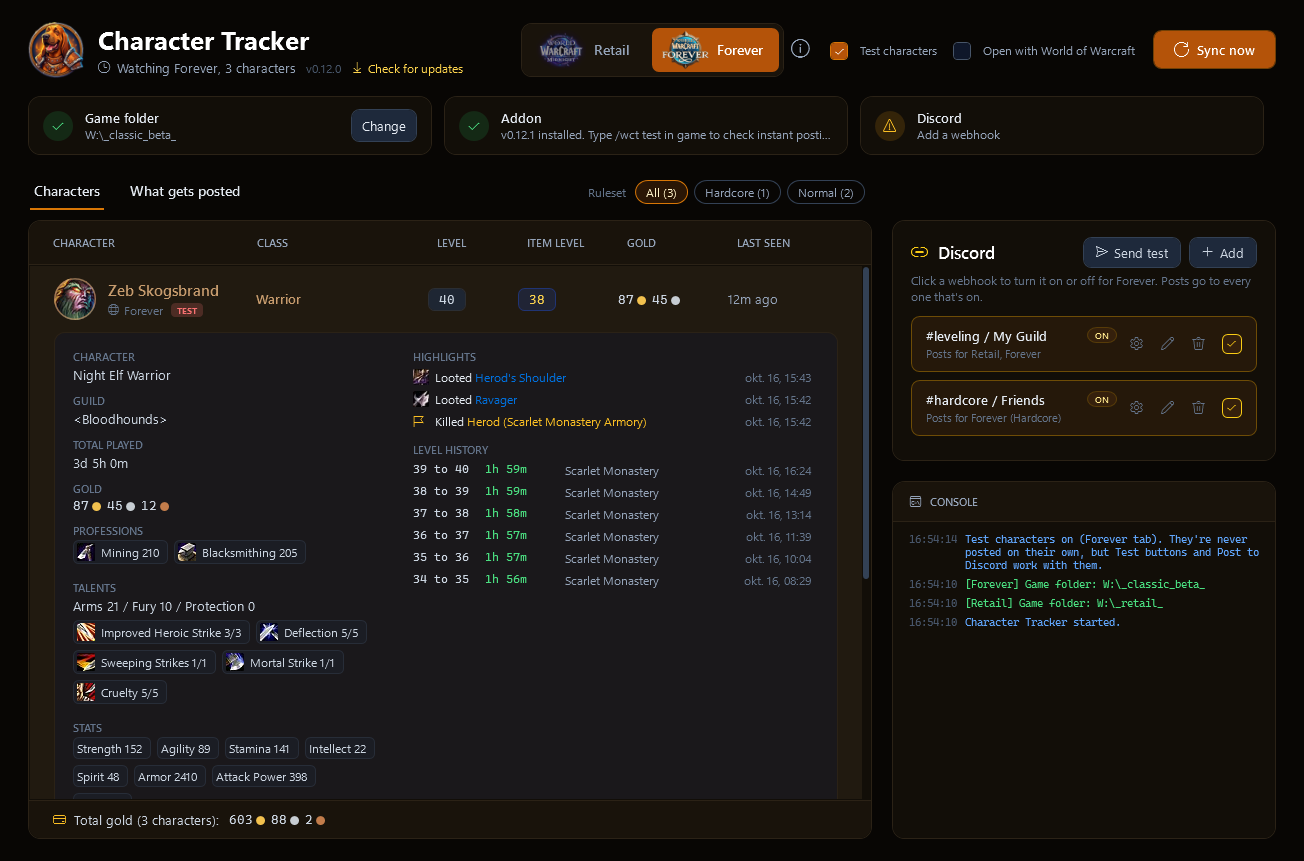
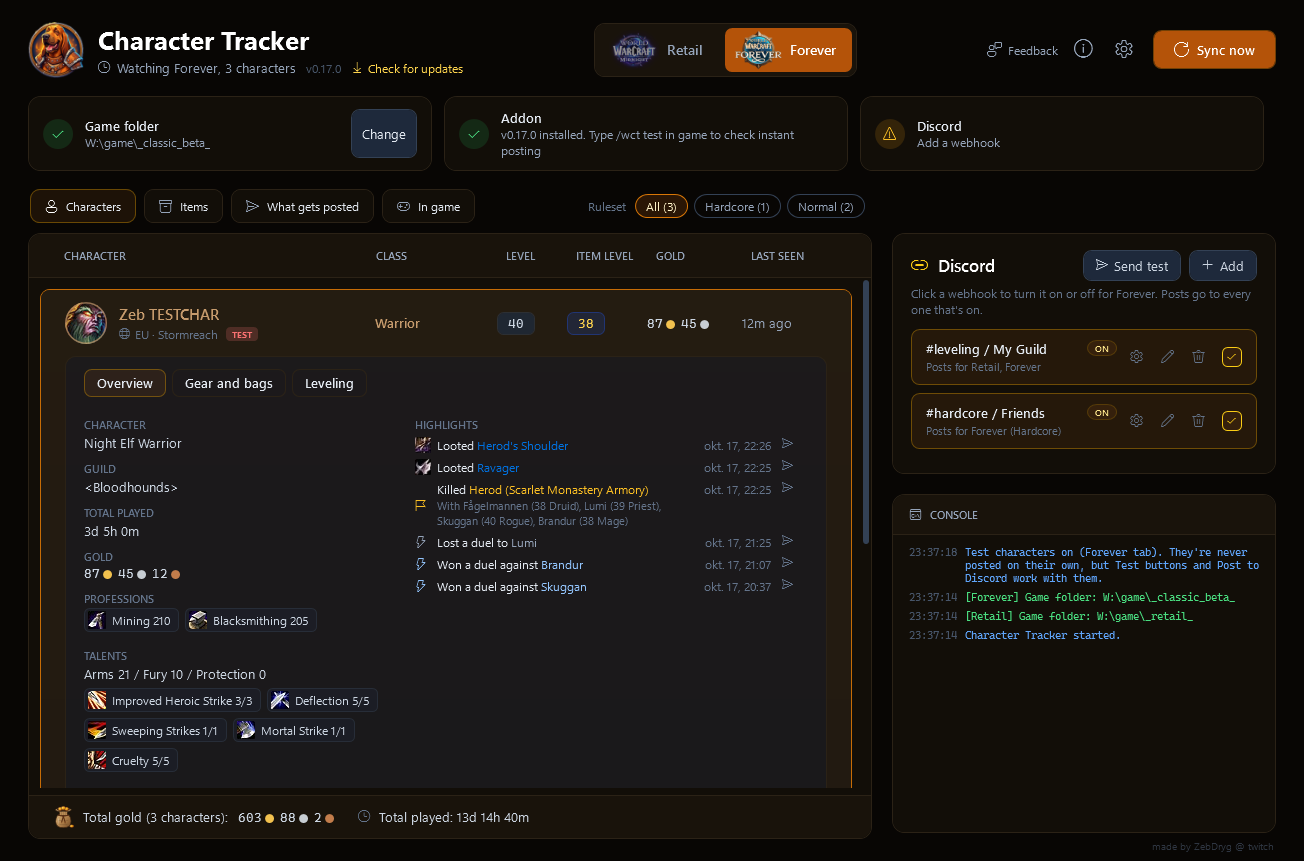
feat(companion): readme pictures and streaming guide, testchar surnames
- README: a real level-up post with its screenshot, the four Forever
  themes, Items, the settings menu, Uninstall and the stream overlay;
  a Streaming section with the OBS/Streamlabs steps, the address
  options and the text files. The old Retail picture is gone.
- Test characters' surname is TESTCHAR (posts add it when the name
  style leaves the surname out).
- Overlay ?preview=1 (the app's Preview button) shows a dark backdrop.
- Fix: StreamSnapshot.Latest returns Empty with no characters instead
  of MaxBy throwing on empty tuples, which failed every sync.

diff --git a/companion/WoWCharacterTracker/Assets/overlay.html b/companion/WoWCharacterTracker/Assets/overlay.html
@@ -2,7 +2,8 @@
 <!-- Character Tracker stream overlay, served by the app (Services/Streaming/OverlayServer) on localhost.
      Add it in OBS / Streamlabs as a Browser source. Options in the address:
        ?only=card   the character card only      ?only=ding   the ding alert only
-       ?scale=1.5   bigger (or smaller)           ?side=right  card on the right                 -->
+       ?scale=1.5   bigger (or smaller)           ?side=right  card on the right
+       ?preview=1   a dark backdrop, for looking at it in a normal browser (the app's Preview button)  -->
 <html>
 <head>
 <meta charset="utf-8">
@@ -10,6 +11,7 @@
 <style>
   :root { --scale: 1; }
   html, body { margin: 0; background: transparent; overflow: hidden; }
+  body.preview { background: radial-gradient(ellipse at 60% 40%, #3a3f4b 0%, #16181d 70%); min-height: 100vh; }
   body { font-family: "Segoe UI Variable Text", "Segoe UI", sans-serif; color: #f1f5f9; }
   .wrap { transform: scale(var(--scale)); transform-origin: top left; padding: 16px; }
   .right .wrap { transform-origin: top right; display: flex; justify-content: flex-end; }
@@ -67,6 +69,7 @@
   const only = q.get("only");
   if (q.get("scale")) document.documentElement.style.setProperty("--scale", q.get("scale"));
   if (q.get("side") === "right") document.body.classList.add("right");
+  if (q.get("preview")) document.body.classList.add("preview");
   const $ = id => document.getElementById(id);
   const text = (el, s) => { el.textContent = s || ""; el.style.display = s ? "" : "none"; };
   let seenDing = null, first = true;

diff --git a/companion/WoWCharacterTracker/Models/TestCharacters.cs b/companion/WoWCharacterTracker/Models/TestCharacters.cs
@@ -16,13 +16,13 @@ static class TestCharacters
 
         var zeb = new Snapshot($"{GuidPrefix}Zeb", "Zeb", "Stormreach", 40, "Warrior", "WARRIOR", "Night Elf", "NightElf", "male",
             "", "", 38.4, 3 * 86400 + 5 * 3600, "Scarlet Monastery", "Mining 210, Blacksmithing 205", "Arms 21 / Fury 10 / Protection 0",
-            Ago(0.2), false, "Normal", 87_45_12, Guild: "Bloodhounds", Surname: "Skogsbrand", TalentPicks: "12282~3~3~1,16462~5~5~1,12292~1~1~1,12294~1~1~1,12320~5~5~2", Stats: "Strength~152,Agility~89,Stamina~141,Intellect~22,Spirit~48,Armor~2410,Attack Power~398,Crit~9.2%", Xp: 31200, XpMax: 90700, MaxLevel: 60, Region: "eu");
+            Ago(0.2), false, "Normal", 87_45_12, Guild: "Bloodhounds", Surname: "TESTCHAR", TalentPicks: "12282~3~3~1,16462~5~5~1,12292~1~1~1,12294~1~1~1,12320~5~5~2", Stats: "Strength~152,Agility~89,Stamina~141,Intellect~22,Spirit~48,Armor~2410,Attack Power~398,Crit~9.2%", Xp: 31200, XpMax: 90700, MaxLevel: 60, Region: "eu");
         var fagel = new Snapshot($"{GuidPrefix}Fagelmannen", "Fågelmannen", "Stormreach", 21, "Druid", "DRUID", "Tauren", "Tauren", "male",
             "", "", 18.1, 19 * 3600 + 40 * 60, "The Barrens", "Herbalism 95, Alchemy 80", "Balance 0 / Feral Combat 12 / Restoration 0",
-            Ago(5), false, "Normal", 4_12_80, Guild: "Bloodhounds", Surname: "Fjäder", Xp: 6100, XpMax: 25200, MaxLevel: 60, Region: "eu");
+            Ago(5), false, "Normal", 4_12_80, Guild: "Bloodhounds", Surname: "TESTCHAR", Xp: 6100, XpMax: 25200, MaxLevel: 60, Region: "eu");
         var goggo = new Snapshot($"{GuidPrefix}Goggo", "Goggo", "Ashfall", 60, "Hunter", "HUNTER", "Dwarf", "Dwarf", "male",
             "", "", 61.7, 9 * 86400 + 14 * 3600, "Blackrock Spire", "Leatherworking 300, Skinning 300", "Beast Mastery 31 / Marksmanship 20 / Survival 0",
-            Ago(26), true, "Hardcore", 512_30_10, Guild: "", Surname: "Bergsten", MaxLevel: 60, Region: "us");
+            Ago(26), true, "Hardcore", 512_30_10, Guild: "", Surname: "TESTCHAR", MaxLevel: 60, Region: "us");
 
         var events = new List<Entry>();
         Entry Base(Snapshot s, string kind, long at, int level) => new()

diff --git a/companion/WoWCharacterTracker/Services/Discord/DiscordPoster.cs b/companion/WoWCharacterTracker/Services/Discord/DiscordPoster.cs
@@ -6,7 +6,8 @@ sealed class DiscordPoster(string webhookUrl, Flavor flavor, string nameStyle = 
 {
     readonly DiscordWebhook webhook = new(webhookUrl);
     readonly EventEmbeds embeds = new(flavor);
-    const string TestMark = " [TESTCHAR]";
+    // Test characters' surname is TESTCHAR; when the tab's name style leaves the surname out, it's added.
+    static string Marked(string name, bool test) => test && !name.Contains("TESTCHAR") ? name + " TESTCHAR" : name;
 
     // Posts the event. Loot gets a picture of the item's tooltip (like Wowhead's) as the embed's
     // image. A screenshot is uploaded with the message: the embed's image, or a second embed under
@@ -18,7 +19,7 @@ sealed class DiscordPoster(string webhookUrl, Flavor flavor, string nameStyle = 
         var testChar = TestCharacters.IsTest(e.Guid);
         e = e with
         {
-            Char = Format.Name(e.Char, e.Surname, nameStyle) + (testChar ? TestMark : ""),
+            Char = Marked(Format.Name(e.Char, e.Surname, nameStyle), testChar),
             Realm = testChar ? $"Test character, not a real one ({e.Realm})" : e.Realm,
         };
         var item = e.Kind == "loot" && e.ItemId > 0 ? await ItemTooltipImage.RenderAsync(e.ItemId, flavor) : null;
@@ -73,7 +74,7 @@ sealed class DiscordPoster(string webhookUrl, Flavor flavor, string nameStyle = 
         if (Shows("guild") && c.HasGuild) subtitle += $"\n<{c.Guild}>";
         var embed = new Dictionary<string, object>
         {
-            ["title"] = Format.Name(c.Name, c.Surname, nameStyle) + (c.Dead ? " (dead)" : "") + (c.IsTest ? TestMark : ""),
+            ["title"] = Marked(Format.Name(c.Name, c.Surname, nameStyle), c.IsTest) + (c.Dead ? " (dead)" : ""),
             ["description"] = subtitle,
             ["timestamp"] = DateTimeOffset.UtcNow.ToString("o"),
             ["footer"] = new { text = c.IsTest ? "Test character, Character Tracker" : $"Character Tracker, {flavor.Name}" },

diff --git a/companion/WoWCharacterTracker/ViewModels/StreamViewModel.cs b/companion/WoWCharacterTracker/ViewModels/StreamViewModel.cs
@@ -17,7 +17,7 @@ sealed class StreamViewModel : Observable
         this.main = main;
         CopyUrlCommand = new RelayCommand(_ => { try { Clipboard.SetText(Url); Log.Info("Copied the stream overlay address: " + Url); } catch { } });
         OpenFolderCommand = new RelayCommand(_ => { Directory.CreateDirectory(StreamFiles.Dir); Browser.Open(StreamFiles.Dir); });
-        OpenOverlayCommand = new RelayCommand(_ => Browser.Open(Url));
+        OpenOverlayCommand = new RelayCommand(_ => Browser.Open(Url + "?preview=1")); // a dark backdrop behind it
     }
 
     public ICommand CopyUrlCommand { get; }
@@ -68,9 +68,7 @@ sealed class StreamViewModel : Observable
         else
             latest.Remove(flavor);
 
-        snapshot = latest.Values.MaxBy(v => v.Character.LastSeen) is var (c, e) && c is not null
-            ? StreamSnapshot.Build(c, e, DateTimeOffset.Now)
-            : StreamSnapshot.Empty;
+        snapshot = StreamSnapshot.Latest(latest.Values, DateTimeOffset.Now);
         if (server is null) return;
         server.Snapshot = snapshot;
         StreamFiles.Write(snapshot);

diff --git a/companion/WoWCharacterTracker/Services/Streaming/StreamSnapshot.cs b/companion/WoWCharacterTracker/Services/Streaming/StreamSnapshot.cs
@@ -18,6 +18,16 @@ sealed record StreamSnapshot(
     const int LevelsShown = 5;
     const int HighlightsShown = 3;
 
+    // The character played last of each game's candidates (Empty when there are none: MaxBy on an
+    // empty list of tuples would throw).
+    public static StreamSnapshot Latest(IEnumerable<(StreamCharacter Character, IReadOnlyList<Entry> Events)> candidates, DateTimeOffset now)
+    {
+        var list = candidates.ToList();
+        if (list.Count == 0) return Empty;
+        var (character, events) = list.MaxBy(v => v.Character.LastSeen);
+        return Build(character, events, now);
+    }
+
     public static StreamSnapshot Build(StreamCharacter c, IEnumerable<Entry> events, DateTimeOffset now)
     {
         var levels = events.Where(e => e.Kind == "level" && e.Guid == c.Guid).OrderByDescending(e => e.At).ToList();

diff --git a/companion/WoWCharacterTracker.Tests/StreamTests.cs b/companion/WoWCharacterTracker.Tests/StreamTests.cs
@@ -45,6 +45,21 @@ public class StreamTests
     }
 
     [Fact]
+    public void No_characters_at_all_is_an_empty_overlay_not_a_crash()
+    {
+        // A fresh install (no characters on any tab) used to throw "Sequence contains no elements".
+        Assert.Same(StreamSnapshot.Empty, StreamSnapshot.Latest([], Now));
+    }
+
+    [Fact]
+    public void The_character_played_last_wins_across_games()
+    {
+        var retail = Ronnie with { Guid = "R-1", Name = "Drygbeck", Game = "Retail", LastSeen = Now.ToUnixTimeSeconds() - 3600 };
+        var s = StreamSnapshot.Latest([(retail, []), (Ronnie, [])], Now);
+        Assert.Equal("Ronnie Raket", s.Character);
+    }
+
+    [Fact]
     public void Text_files_are_empty_without_a_character()
     {
         Assert.All(StreamFiles.Contents(StreamSnapshot.Empty), f => Assert.Equal("", f.Text));

diff --git a/README.md b/README.md
@@ -6,19 +6,9 @@ Made with WoW Forever (Classic+) in mind, and works for Retail too. Each has its
 
 ![The app on the Forever tab, with a character's details open](docs/images/characters.png)
 
-A level-up post looks like this:
+A level-up post, with the screenshot the addon took in game:
 
-```
-[Night Elf portrait]   Night Elf Warrior
-                       Zeb Skogsbrand just dinged level 40.
-                       39 to 40 took 1h 59m.
-                       Total played: 3d 5h.
-                       They dinged in Scarlet Monastery.
-
-                       Professions: ⛏ Mining 210, 🔨 Blacksmithing 205
-                       Talents: Arms 21 / Fury 10 / Protection 0
-                       [screenshot]
-```
+<img src="docs/images/level-up-post.png" alt="A level-up post in Discord with an in-game screenshot" width="500">
 
 ## Getting started
 
@@ -61,9 +51,9 @@ Above the columns:
 
 Posts show the character's portrait as the sender picture, item and mount names link to Wowhead, and professions get an emoji.
 
-The Retail tab has its own Midnight look:
+Each game has its own look, and under Settings you can pick a color theme per game: Midnight, Void arcane or Silvermoon for Retail, Classic gold, Forever wisp, Emerald Dream or Blackrock ember for Forever. Here's Forever in its four themes:
 
-![The Retail tab](docs/images/retail-tab.png)
+![Forever in Classic gold, Forever wisp, Emerald Dream and Blackrock ember](docs/images/themes.png)
 
 ### In game
 
@@ -83,6 +73,9 @@ The **In game** page has what the addon does in game besides posting:
 
   - **Leveling**: average, fastest and slowest level, a chart of your level times, how your item level and professions grew, your duel record, and the level history. On Forever also the played time left to max level at your recent pace. It counts that later levels need more XP, and that monsters give more XP too.
 - **Items**: everything your characters carry (worn, bags and bank) in one list per server, with icons. Search by name to see who has what and where, or show only what's equipped, in bags or in the bank, or only one type (gear, consumables, trade goods, quest items). Hover an item for its tooltip, colored like in game. Each server shows when and where every character was last saved, since items only update on `/reload` or logout.
+
+  ![The Items page: every item with who has it and where, with place and type chips](docs/images/items.png)
+
 - **Tags**: make your own (like Main, Alts, Guild) and put them on characters. Webhooks can post only for some tags.
 - **Post to Discord**: sends the character as a card picture, with icons and quality colors. The gear next to it picks what the card shows (item level, played, gold, crests, professions, talents, stats, guild, last seen, levels, highlights). **Remove from list** hides a character you don't play anymore; if you play it again, it comes back.
 
@@ -95,10 +88,35 @@ The **In game** page has what the addon does in game besides posting:
 
 - **Console**: what the app is doing, like posts sent and anything that needs your attention. Instant posts say how long they took to reach Discord, and where the time went.
 - **Sync now**: reads the game's saved data again and posts anything new. The icon spins while it works, and the console says what it found.
-- **Settings** (the gear at the top): **Open with World of Warcraft** (the app waits in the tray and opens when the game starts), **Hide the window when the game closes**, and **Test characters**, three made-up Forever characters (Zeb, Fågelmannen and Goggo) to try everything without playing. They're never posted on their own. **Track Retail** / **Track Forever** turn a game off if you only play the other one: the app then doesn't look at it at all (no addon installed there, its data isn't read), and its tab offers to turn it back on or remove the addon from it. **Colors for** the open game picks its theme: Midnight, Void arcane or Silvermoon for Retail, Classic gold, Forever wisp, Emerald Dream or Blackrock ember for Forever.
+- **Settings** (the gear at the top):
+
+  <img src="docs/images/settings.png" alt="The settings menu: games, test characters, color themes, stream overlay" width="300">
+
+  **Open with World of Warcraft** (the app waits in the tray and opens when the game starts), **Hide the window when the game closes**, and **Test characters**, three made-up Forever characters (Zeb, Fågelmannen and Goggo) to try everything without playing. They're never posted on their own. **Track Retail** / **Track Forever** turn a game off if you only play the other one: the app then doesn't look at it at all (no addon installed there, its data isn't read), and its tab offers to turn it back on or remove the addon from it. **Colors for** the open game picks its theme: Midnight, Void arcane or Silvermoon for Retail, Classic gold, Forever wisp, Emerald Dream or Blackrock ember for Forever.
 - **Updates**: the app checks for a new version when it starts and every few hours. **Check for updates** next to the version number checks right away. **Update now** downloads it and restarts, and **What's new** shows the notes from [CHANGELOG.md](CHANGELOG.md).
-- **Stream overlay** (Settings): turns on a small web page for streaming, at `http://localhost:8721/`. Add it in OBS or Streamlabs as a Browser source: it shows the character you're playing, its latest level times, today's levels and highlights, and a big DING! alert when you level up. `?only=ding` shows just the alert, `?only=card` just the card, `?scale=1.5` makes it bigger, `?side=right` puts the card on the right. **Text files** opens a folder with the same info as text files (level, last level time, today's levels...) for OBS Text sources (Read from file).
+- **Stream overlay**: see [Streaming](#streaming).
 - **Uninstall** (Settings, at the bottom): lists everything the app and the addon put on your PC, with every path and its size, and you pick what goes: the app, the addon in each game, your character data in each game, and the app's settings and caches. **Keep my data** (the default) removes the app and the addon but keeps your characters and settings for later, **Remove everything** removes it all, **Only the app** leaves the addon running. Afterwards it shows what was removed, closes, and the app deletes itself a moment later. Close the game first, since it writes the addon's files again when it exits. Your screenshots, your webhooks in Discord and the game's Advanced combat logging setting stay either way.
+
+  <img src="docs/images/uninstall.png" alt="The Uninstall page: every part with its paths and size" width="640">
+
+### Streaming
+
+Show your character and your dings on stream, in OBS or Streamlabs:
+
+1. In the app, open **Settings** (the gear at the top) and tick **Stream overlay and text files**.
+2. Click **Copy address**. It's `http://localhost:8721/`.
+3. In OBS: under **Sources** click **+**, pick **Browser**, paste the address as the **URL**, and set the width and height to your canvas (like 1920 and 1080). In Streamlabs: **+**, **Browser Source**, the same.
+4. Click **Preview** in the app to see it in your normal browser first (with a dark background so you can see it; on stream it's see-through).
+
+What it shows: a card with the character you're playing (the one you played last, Retail or Forever), its level and zone, how long the last level took, the levels before that, how many levels you did today and their average, and your latest highlights. When you ding, a big **DING!** with the level and the time it took pops up in the middle for a few seconds.
+
+<img src="docs/images/stream-overlay.png" alt="The stream overlay: the character card and the DING! alert" width="560">
+
+Add these to the address to change it: `?only=ding` just the ding alert (add the overlay twice to place them separately), `?only=card` just the card, `?scale=1.5` bigger (or `0.8` smaller), `?side=right` the card in the top right corner. Combine them with `&`, like `http://localhost:8721/?only=card&scale=1.3`.
+
+**Text files** opens a folder with the same info, one value per file, for OBS **Text** sources (tick **Read from file**): `character.txt`, `character_line.txt` (Ronnie Raket, level 22 Paladin), `level.txt`, `last_level.txt` (21 to 22 took 23m 11s), `levels.txt`, `today.txt`, `highlights.txt`, `zone.txt`, `played.txt` and `item_level.txt`.
+
+Only your own PC can open the page. Test characters never show up on it.
 
 ### Making a Discord webhook
 

diff --git a/CHANGELOG.md b/CHANGELOG.md
@@ -11,6 +11,9 @@ The app shows the notes for a new version when it finds an update. Each release 
 - **Stream overlay and text files** (Settings, Stream overlay): a page for an OBS or Streamlabs Browser source with the character you're playing, its latest level times, today's levels and highlights, and a big **DING!** alert when you level. Add `?only=ding` for just the alert, `?scale=1.5` to make it bigger. Text files with the same info (level, last level time, today...) for Text sources. Only your PC can open the page.
 - Character details fade in when you open them, and when you switch their tabs.
 - A gold bag next to the total gold, instead of a card.
+- The test characters' surname is TESTCHAR, so their posts can't be mistaken for real ones.
+- Fixed: a game tab without any characters made every sync fail ("Sequence contains no elements") while the stream code was in this version's test builds.
+- README: new pictures (a real level-up post, the four Forever themes, Items, settings, Uninstall, the stream overlay) and a Streaming section that walks through the OBS setup.
 - **Picking the game folder is clearer**: Browse asks for your World of Warcraft folder (or the game's folder inside it) and starts there. Any folder inside them works too, picking the other game's folder finds the right one next to it, and when it can't, it says why (like "This World of Warcraft folder has _retail_ but no _classic_beta_. Is Forever installed?").
 
 ## v0.16.0
